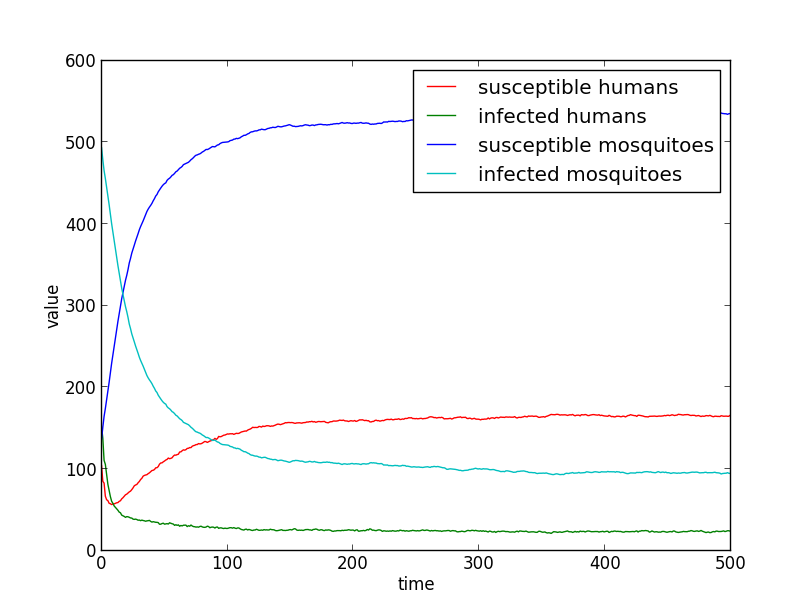
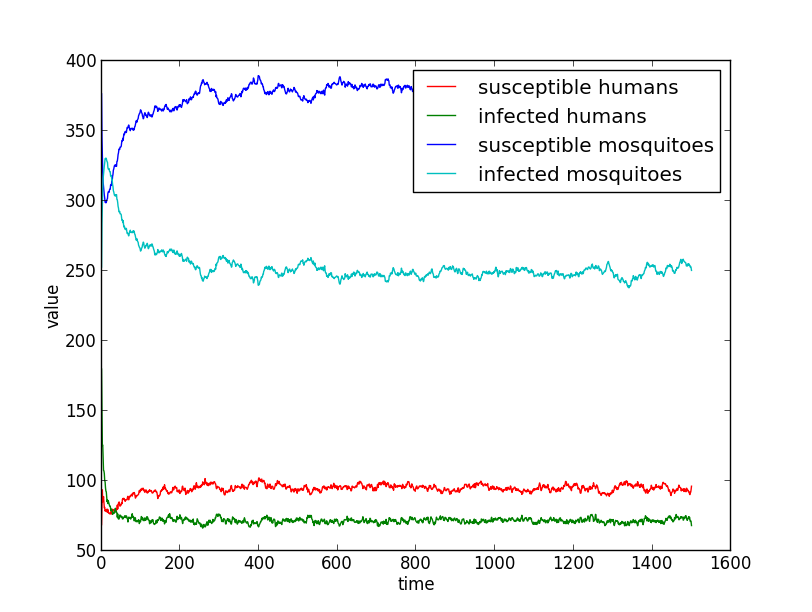
Added all, seems done

diff --git a/ForestFire/report.tex b/ForestFire/report.tex
@@ -1,5 +1,4 @@
 \documentclass[a4paper]{report}
-
 \usepackage[english]{babel}
 \usepackage{amsmath}
 \usepackage{graphicx}
@@ -213,7 +212,7 @@ For the following experiments a $30 \times 30$ grid was used. Every simulation r
 the board (i.e. when  malaria became extinct). If more than 500 runs
 were used this is stated so explicitly in the results.
 Because every board instance is random, each choice of combination density ran
-a hundred times so that the random factor would be excluded as much as possible
+twenty times so that the random factor would be excluded as much as possible
 from the output (while still making the execution times manageable).
 
 For these experimentations the rates from table \ref{tab:rates} were used in all
@@ -257,36 +256,39 @@ seem to be the amount of humans on the grid that would be able to catch the
 disease. The more humans, the more uninfected mosquitoes might possibly get
 infected as well and the longer the disease will probably survive. Figure
 \ref{fig:var_human} shows the statistics. The
-experimentation was conducted  with 450 mosquitoes (half of the grid) from which
+experimentation was conducted with 450 mosquitoes (half of the grid) from which
 396 were susceptible.  For every run the rate of humans (in relation to total
 grid size) was 0.1, 0.2, 0.3, 0.4
 and 0.5 (note that 0.5 is the max as the amount of mosquitoes is 450, or 0.5, as
 well). The amount of susceptible humans is 0.2 of the total amount of humans.
-Figure \ref{fig:var_human} shows that malaria in smaller populations, those
-with a rate of 0.1 and 0.2, will go extinct in 150 and 210 time iterations
-respectively. In the case of 0.4 and 0.5, a stabilisaion point seems to
+Figure \ref{fig:var_human} shows that malaria in a smaller population doesn't
+flourish so well. In case of 0.1 ratio of human population malaria dies out
+after around 350 iterations. In case of 0.2, the amount of infected mosquitoes
+is quite low and seems to go down still after 500 iterations.
+ In the case of the 0.4 and 0.5 ratio, a stabilisaion point seems to
 develop, with the most infected mosquito at a time in case of a 1 to 1 ratio of
 mosquitoes and humans. Figure \ref{fig:var_human_1500} shows the development towards 1500
 iterations, for both 360 en 450 humans. Both having a stabilised infected
-mosquito population of aroun 0.16 and 0.2 of the total mosquito population
-respectively. The rate of infected humans stabilises around 0.083 and  0.111,
+mosquito population of around 0.4 and 0.5 of the total mosquito population
+respectively. The rate of infected humans stabilises around 0.1 and  0.2,
 making the case of a 1:1 ratio (450 mosquitoes and 450 humans) the best
-combination for spreading malaria.
+combination for spreading malaria in these given cases.
 
-An experiment with more mosqutoes than humans is conduxted as well. In figure
+An experiment with more mosquitoes than humans is conducted as well. In figure
 \ref{fig:more_mosquitoes}
 the effect of having 630 mosquitoes next to 270 humans is shown with a human
 susceptibility rate of 0.8 and those of mosquitoes of 0.2. The amount
-of infected mosquitoes after the $500$th iteration lays around 100, or a rate
-of 0.2 of the total mosquito population. The amount of infected humans
-is about 0.1 of the total amount of mosquitoes, performing about as good as the
-1:1 ratio.
+of infected mosquitoes after the $500$th iteration lays around 246, or a rate
+of 0.39 of the total mosquito population. The amount of infected humans
+is about 0.33 of the total amount of humans, performing about as good as the
+1:1 ratio. the ratio of infected humans is higher but because the lower
+population it is less nuanced as in the previous case and can be neglected
 
 Table \ref{tab:rates_density} shows all results in table format.
 
 \begin{figure}[htbp]
     \centering
-    \includegraphics[width=0.9\textwidth]{var_human_density_02_05_08.png}
+    \includegraphics[width=0.9\textwidth]{var_human_density_02_05_08_SECOND.png}
     \caption{The result of varying human density between 90 humans and 450 humans.}
     \label{fig:var_human}
 \end{figure}
@@ -295,7 +297,7 @@ Table \ref{tab:rates_density} shows all results in table format.
 
 \begin{figure}[htbp]
     \centering
-    \includegraphics[width=0.9\textwidth]{var_human_1500.png}
+    \includegraphics[width=0.9\textwidth]{var_human_1500_SECOND.png}
     \caption{Extended towards 1500 iterations for population of 360 and 450
     humans}
     \label{fig:var_human_1500}
@@ -323,11 +325,11 @@ Table \ref{tab:rates_density} shows all results in table format.
         %a&a&a&a&a&a\\
         \hline
         0.1&0.8&0.5&0.2&0&0\\
-        0.2&0.8&0.5&0.2&0&0\\
-        0.3&0.8&0.5&0.2&0.05&0.09 \\
-        0.4&0.8&0.5&0.2&0.08&0.16\\
-        0.5&0.8&0.5&0.2&0.11&0.2\\
-        0.3&0.8&0.7&0.2&0.1&0.2\\
+        0.2&0.8&0.5&0.2&0.07&0.23\\
+        0.3&0.8&0.5&0.2&0.12&0.38 \\
+        0.4&0.8&0.5&0.2&0.15&0.45\\
+        0.5&0.8&0.5&0.2&0.23&0.51\\
+        0.3&0.8&0.7&0.2&0.33&0.39\\
         \hline
 \end{tabular}
 }
@@ -353,7 +355,7 @@ human population. The same in a somewhat slower rate happens to the mosquitoes.
 \begin{figure}[ht]
     \begin{minipage}[b]{0.8\linewidth} 
         \centering
-        \includegraphics[scale=0.5]{var_mosquito_suscept_05_02_05.png}
+        \includegraphics[scale=0.5]{var_mosquito_suscept_05_02_05_SECOND.png}
         \caption{Experimentations with 450 humans, of which 90 susceptible and 450
         mosquitoes. The amount of susceptible mosquitoes varied between 0 and
     450 }
@@ -361,7 +363,7 @@ human population. The same in a somewhat slower rate happens to the mosquitoes.
     \end{minipage}
     \begin{minipage}[b]{0.8\linewidth}
         \centering
-        \includegraphics[scale=0.5]{var_mosquito_suscept_05_08_05.png}
+        \includegraphics[scale=0.5]{var_mosquito_suscept_05_08_05_SECOND.png}
         \caption{Experimentations with 450 humans, of which 396 susceptible and 450
         mosquitoes. The amount of susceptible mosquito was varied between 0 and
         450}
@@ -405,8 +407,8 @@ happens, which doesn't encourage to variate the deathrate any more
 
 In all the previous plots the amount of immune humans has been left out to make
 the plots more coherent (and because the viewer can calculate himself the amount
-of immune people using the plot at any given time), but in case of figure
-\ref{sub:figure1} and \ref{sub:figure2} the immunity rate is a steady 0.11
+of immune people using the plot at any given time), but in case of the previous
+plots the immunity rate is a steady 0.11
 percent. What happens if immunity is three times less likely to happen? Figure
 \ref{fig:less_immunity_05_08_05_08} shows some variation from previous plots.
 The amount of susceptible humansbecomes much lower as before, and the amount of
@@ -440,18 +442,26 @@ in \ref{fig:less_immunity_05_08_05_02}.
 When figuring out the best conditions for malaria to be kept in existence the
 ratio between humans and mosquitoes is quite important. A ration of 1 mosquito
 to 1 human in this 30 $\times$ 30 grid seemed to work the best with keeping
-malaria in existince. It kept the highest ratio for both infected humans as for
-infected mosquitoes.
+malaria in existince. It kept the highest ratio for both infected humans as well
+as for infected mosquitoes, and kept for at least 1500 iterations. It seems safe
+to say that malaria wouldn't die out with these conditions, but should be
+experimented with more. In case of having more mosquitoes than humans this also
+has a positive effect on mosquitoes, but some extreme values should still be
+tested.
 
 The starting amount of both susceptible humans and mosquitoes can be anything
-without mattering too much. 
-same without making much difference for the entire development of the mosquito.
-This might seem counterintuitive as both having many susceptible mosquitoes as
+without mattering too much. At least not for the broad range of values what were
+tested, but might need to be checked still for some extreme cases. The idea that
+the initial susceptibility doesnt matters might seem counterintuitive as both having many susceptible mosquitoes as
 well as susceptible humans would seem to mean those mosquitoes won't often
-encounter an infected human. As long as \dots
+encounter an infected human, especially with the random walk that is
+implemented. Although highering the mortality rate and lowering immunity 
+seemed to , all of those experiments didn't confirm this intuition.
 
-There are some small things that could be changed to give more reliable results:
-Making mosquitoes somewhat more intelligent could help
+Malaria as implemented in this grid-simulation is quite a robust disease, and in
+the right cases even an epidemic. Some more experimentations with elements like
+moratlity rate and the immunity rate could maybe explain some of this robustness, which wasn't found with
+just experimenting with the rates of density unfortunately.
 
 % chapter malaria (end)
 

diff --git a/Malaria/malaria_simulation.py b/Malaria/malaria_simulation.py
@@ -1,3 +1,5 @@
+##### See main for example of how to run the code###
+
 import random
 import time
 import sys
@@ -349,11 +351,8 @@ class board:
 
     # The simulation loop that runs 
     def run(self, counter):
-         
         mosquit1 = self.__get_position(SUSMO)
-        print mosquit1
         mosquit2 = self.__get_position(INFMO)
-        print len(mosquit2)
         # create field that keeps track of all mosquitoes
         self.all_mosquitoes = mosquit1 + mosquit2
         human1 = self.__get_position(SUSHU)
@@ -364,6 +363,8 @@ class board:
         i = 0 
         
         while(i < 1500):
+            raw_input("Press Enter")
+            self.print_world()
             self.__move_mosquitoes()
             for r in self.all_mosquitoes:
                 both = False
@@ -619,43 +620,11 @@ class Human:
 
 
 def main():
-    global filename
-    global current
-    board_n = 30
-    cells = board_n * board_n
-    human_density = [0.3]
-    human_susceptible = [ 0.2]
-    mosquito_density = [0.7]
-    mosquito_susceptible = [0.8]
-    for i in human_density:
-        humans = int(math.ceil(cells * i))
-        print humans
-        for j in mosquito_density:
-            mosquitoes = int(math.ceil(cells*j))
-            print mosquitoes
-            if i + j > 1:
-                continue
-            else:
-                for k in human_susceptible:
-                    sus_humans = int(humans * k)
-                    inf_humans = int(humans * (1-k))
-                    for l in mosquito_susceptible:
-                        sus_mosquitoes = int(mosquitoes * l)
-                        inf_mosquitoes = int(mosquitoes * (1-l))
-                        for counter in xrange(0, 20):
-                            current = (filename + "human_density:" + 
-                            str(i) + "|human_susceptible:" + 
-                            str(k) + "|mosquito_density:" + 
-                            str(j) + "|mosquito_susceptible:"+
-                            str(l)) + "/"
-                            if not os.path.exists(current):
-                                os.makedirs(current)
-                            my_board = board(board_n, board_n, sus_humans,
-                                     inf_humans, 0, sus_mosquitoes,
-                                     inf_mosquitoes)
-                            my_board.run(counter)
-                            print counter
-                        
+    # arguments for object: board_size x, board_size y, susceptible humans,
+    # infected humans, immune humans, susceptible mosquitoes,
+    # infected mosquitoes
+    my_board = board(30,30, 400, 200, 0, 200, 0)
+    my_board.run(0)
 
 
                     

diff --git a/Malaria/lines2d_demo.py b/Malaria/lines2d_demo.py
@@ -2,6 +2,7 @@ import matplotlib as mpl
 import numpy as np
 from pylab import *
 import sys, os, os.path, subprocess, re
+pipo = "human variable_07 03"
 
 # some argument parsing
 if len(sys.argv) < 4:
@@ -20,7 +21,7 @@ columns = sys.argv[8:]
 constants = dict( zip(constants[::2], constants[1::2]))
 
 # parse the folders
-for folder in os.listdir('deathrate_05_08_05_08_again'):
+for folder in os.listdir(pipo):
     reject = False
     for key, val in constants.iteritems():
         if '%s:%s' % (key, val) not in folder:
@@ -29,7 +30,7 @@ for folder in os.listdir('deathrate_05_08_05_08_again'):
 
     # add the folder relative to the current directory
     if not reject:
-        folders.append(os.path.join('deathrate_05_08_05_08_again', folder))
+        folders.append(os.path.join(pipo, folder))
 
 # get the values for variable parameter in the same order as in the folders list
 for folder in folders:
